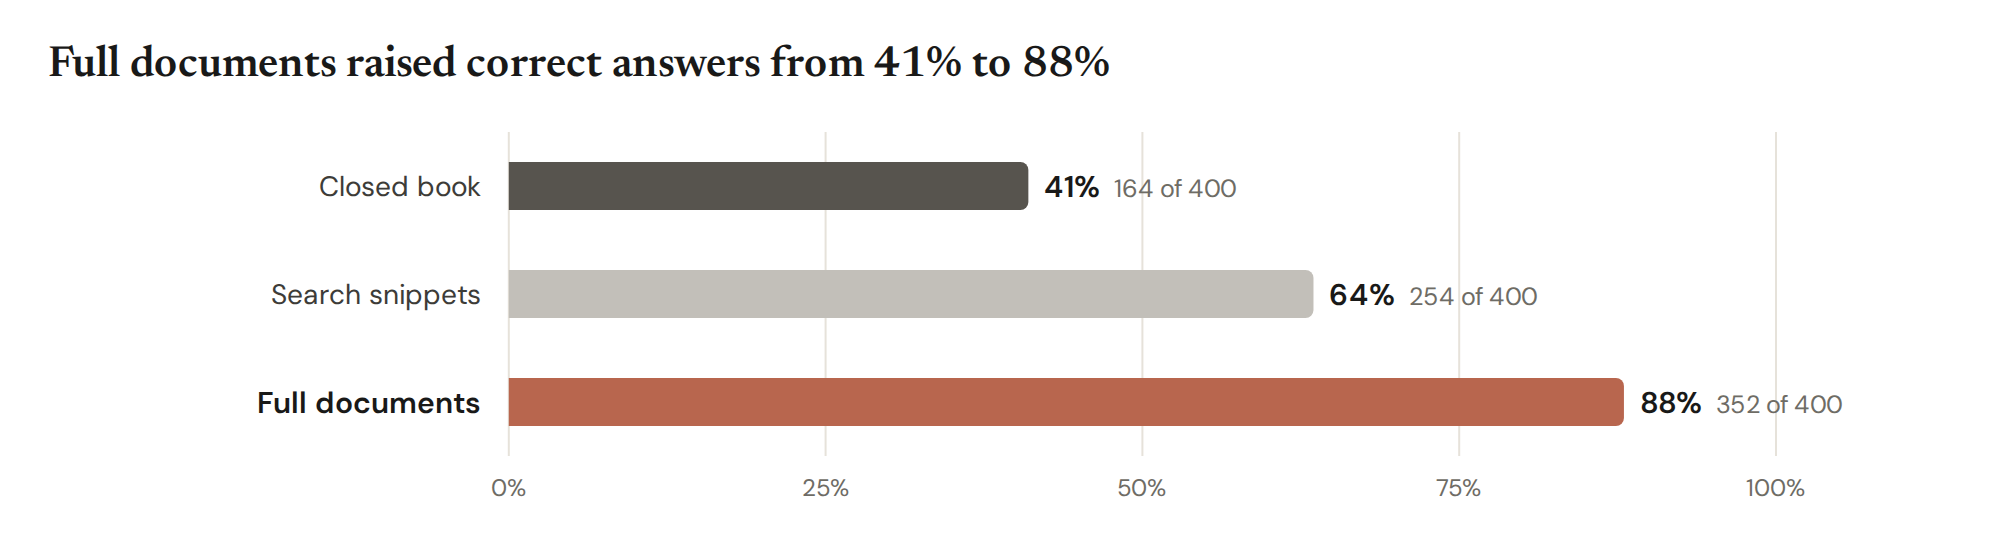
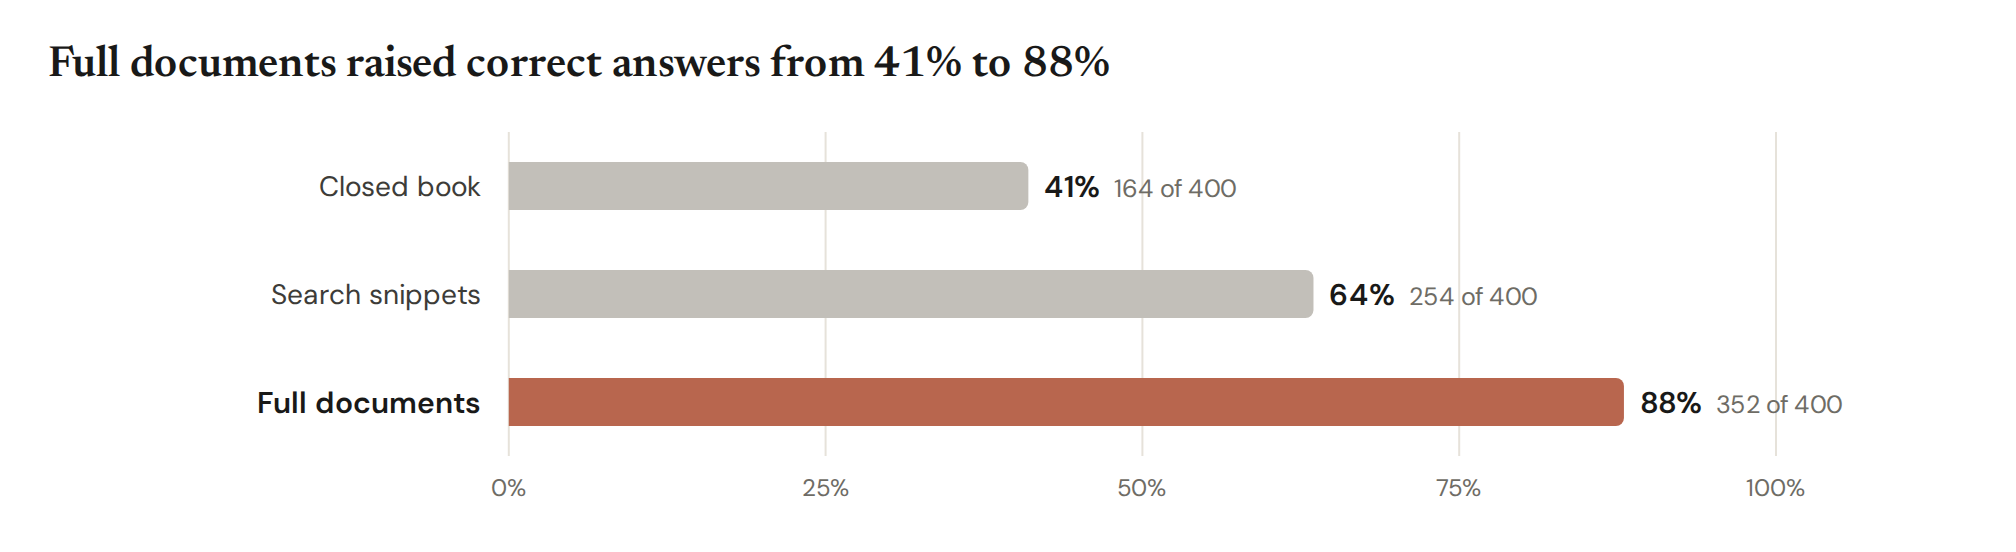
Controls take the light gray
The control is the light gray, like everything else that isn't the point; the intervention colors are unchanged.

Changed region(s): [[0.25, 0.2772, 0.5312, 0.4004]]

diff --git a/tests/test_colors.py b/tests/test_colors.py
@@ -39,8 +39,8 @@ DATA = {"Closed book": 59, "Longer prompt": 55, "With search": 12}
 def test_roles_color_the_named_conditions_and_mute_the_rest():
     assert drawn(vl.hbar(DATA)) == ["blue", "blue", "blue"]
     vl.set_roles(control="Closed book", intervention="With search")
-    assert drawn(vl.hbar(DATA)) == ["dark", "gray", "coral"]
-    assert drawn(vl.bars(DATA)) == ["dark", "gray", "coral"]
+    assert drawn(vl.hbar(DATA)) == ["gray", "gray", "coral"]
+    assert drawn(vl.bars(DATA)) == ["gray", "gray", "coral"]
     assert vl.roles() == {"Closed book": "control", "With search": "intervention"}
     vl.set_roles(baseline="Closed book")  # another name for the control
     assert vl.roles() == {"Closed book": "control"}
@@ -50,8 +50,8 @@ def test_the_interventions_take_the_palette_in_order():
     data = {"Closed book": 60, "With search": 50, "Rerank": 40, "Prompting": 30, "Fine-tuning": 20, "Both": 10}
     f = vl.hbar(data, roles={"control": "Closed book", "intervention": "With search", "second": "Rerank",
                              "third": "Prompting", "fourth": "Fine-tuning", "fifth": "Both"})
-    assert drawn(f) == ["dark", "coral", "blue", "sage", "plum", "ochre"]
-    assert vl.color("intervention") == th.color("coral") and vl.color("baseline") == th.color("dark")
+    assert drawn(f) == ["gray", "coral", "blue", "sage", "plum", "ochre"]
+    assert vl.color("intervention") == th.color("coral") and vl.color("baseline") == th.color("gray")
 
 
 def test_ordered_conditions_run_light_to_dark():
@@ -66,23 +66,23 @@ def test_ordered_conditions_run_light_to_dark():
 def test_roles_apply_to_series_names_and_muted_series_take_shades():
     vl.set_roles(control="Closed book", intervention="With search")
     grouped = vl.bars({"Model A": [40, 10]}, series=["With search", "Closed book"], legend=False)
-    assert drawn(grouped) == ["coral", "dark"]  # by name, not by position
+    assert drawn(grouped) == ["coral", "gray"]  # by name, not by position
     lines = vl.line({"Closed book": [1, 2], "Rerank": [2, 3], "Prompting": [2, 2], "With search": [3, 4]}, x=[0, 1],
                     legend=False, markers=False)
     strokes = {NAMES.get(c.upper()) for c in re.findall(r'stroke="(#[0-9A-Fa-f]{6})"', lines.svg())}
-    assert {"dark", "gray", "gray-light", "coral"} <= strokes
+    assert {"gray", "gray-light", "coral"} <= strokes
 
 
 def test_a_figure_keeps_the_roles_it_was_made_with():
     vl.set_roles(control="Closed book")
     f = vl.hbar(DATA)
     vl.set_roles(control="With search")
-    assert drawn(f)[0] == "dark" and drawn(f)[2] == "gray"
+    assert drawn(f)[0] == "gray" and drawn(f)[2] == "gray" and drawn(f) == ["gray", "gray", "gray"]
 
 
 def test_per_chart_roles_add_to_the_global_ones():
     vl.set_roles(control="Closed book", intervention="With search")
-    assert drawn(vl.hbar(DATA, roles={"second": "Longer prompt"})) == ["dark", "blue", "coral"]
+    assert drawn(vl.hbar(DATA, roles={"second": "Longer prompt"})) == ["gray", "blue", "coral"]
     with pytest.raises(ValueError, match="unknown role"):
         vl.hbar(DATA, roles={"focus": "With search"})
 
@@ -91,7 +91,7 @@ def test_explicit_colors_win_and_highlight_only_bolds_when_roles_are_in_play():
     vl.set_roles(control="Closed book")
     assert drawn(vl.hbar(DATA, colors={"Closed book": "navy"})) == ["navy", "gray", "gray"]
     f = vl.bars(DATA, highlight="Longer prompt")
-    assert drawn(f) == ["dark", "gray", "gray"]
+    assert drawn(f) == ["gray", "gray", "gray"]
     assert re.search(r'font-weight="600"[^>]*>Longer prompt<', f.svg())
     vl.set_roles()
     assert drawn(vl.hbar(DATA, highlight="With search")) == ["gray", "gray", "blue"]  # no roles: the accent
@@ -100,13 +100,13 @@ def test_explicit_colors_win_and_highlight_only_bolds_when_roles_are_in_play():
 def test_panels_pass_their_roles_to_each_panel():
     p = vl.panels([vl.bars({"Closed book": 38, "Search": 10}), vl.bars({"Small model": 38, "Search": 12})],
                   roles={"control": ["Closed book", "Small model"], "intervention": "Search"})
-    assert drawn(p) == ["dark", "coral", "dark", "coral"]
+    assert drawn(p) == ["gray", "coral", "gray", "coral"]
 
 
 def test_json_specs_take_roles():
     f = vl.from_spec({"chart": "hbar", "data": {"Base model": 31, "Worked examples": 18, "Forum answers": 37},
                       "roles": {"control": "Base model", "intervention": "Worked examples"}})
-    assert drawn(f) == ["dark", "coral", "gray"]
+    assert drawn(f) == ["gray", "coral", "gray"]
 
 
 def test_a_roles_file_sets_the_roles_for_every_script(tmp_path, monkeypatch):
@@ -116,7 +116,7 @@ def test_a_roles_file_sets_the_roles_for_every_script(tmp_path, monkeypatch):
     monkeypatch.chdir(work)
     colors._state.update(loaded=False, source=None)  # a fresh process
     colors._global.clear()
-    assert drawn(vl.hbar(DATA)) == ["dark", "gray", "coral"]
+    assert drawn(vl.hbar(DATA)) == ["gray", "gray", "coral"]
     assert colors.source() == (tmp_path / "vellum-roles.json").resolve()
     vl.set_roles(intervention="Longer prompt")  # code replaces the file for this script
     assert drawn(vl.hbar(DATA)) == ["gray", "coral", "gray"] and colors.source() is None
@@ -136,6 +136,6 @@ def test_role_names_that_almost_match_are_flagged():
 
 
 def test_palettes_are_exported():
-    assert vl.PALETTES["roles"] == {"control": "dark", "intervention": "coral", "second": "blue", "third": "sage",
+    assert vl.PALETTES["roles"] == {"control": "gray", "intervention": "coral", "second": "blue", "third": "sage",
                                     "fourth": "plum", "fifth": "ochre"}
     assert vl.PALETTES["outcomes"]["bad"] == "coral" and vl.PALETTES["series"][:3] == ["coral", "blue", "sage"]

diff --git a/tests/test_access.py b/tests/test_access.py
@@ -37,8 +37,8 @@ def test_text_colors_reach_4_5_to_1(token):
     assert access.contrast(getattr(th, token), th.BG) >= 4.5
 
 
-@pytest.mark.parametrize("name", [*ROLES.values(), *th.SERIES, "coral"])
-def test_mark_colors_reach_3_to_1(name):
+@pytest.mark.parametrize("name", [c for c in ROLES.values() if c != MUTED] + [*th.SERIES, "coral"])
+def test_mark_colors_reach_3_to_1(name):  # the light gray control is labeled context
     assert access.contrast(th.color(name), th.BG) >= 3.0
 
 
@@ -50,7 +50,7 @@ def common_vision_distance(a: str, b: str) -> float:
 
 
 def test_the_control_and_first_three_interventions_stay_apart():
-    group = ["dark", "coral", "blue", "sage", MUTED]
+    group = [MUTED, "coral", "blue", "sage"]  # the control is the muted gray
     for a, b in itertools.combinations(group, 2):
         assert common_vision_distance(a, b) >= 10, (a, b)
         assert access.worst_delta_e(th.color(a), th.color(b))[0] >= 6, (a, b)  # tritanopia too, a little closer
@@ -61,7 +61,7 @@ def test_the_fourth_and_fifth_only_near_their_hue_twins():
     assert common_vision_distance("plum", "blue") < 10 and common_vision_distance("ochre", "coral") < 10
     for c in ("plum", "ochre"):
         twin = "blue" if c == "plum" else "coral"
-        for other in ["dark", "coral", "blue", "sage", "plum", "ochre", MUTED]:
+        for other in ["coral", "blue", "sage", "plum", "ochre", MUTED]:
             if other not in (c, twin):
                 assert common_vision_distance(c, other) >= 10, (c, other)
 

diff --git a/src/vellum/colors.py b/src/vellum/colors.py
@@ -3,7 +3,7 @@
     vl.set_roles(control="Closed book", intervention="With search", second="Rerank")
     vl.hbar({"Closed book": 59, "Rerank": 30, "Longer prompt": 55, "With search": 12}, title=...)
 
-control       dark gray   the condition without the intervention: the baseline, the untrained model ("baseline"
+control       light gray  the condition without the intervention: the baseline, the untrained model ("baseline"
                           means the same role)
 intervention  orange      what the figure is about
 second        blue        a second intervention
@@ -29,7 +29,7 @@ from collections.abc import Mapping
 from contextlib import contextmanager
 from pathlib import Path
 
-ROLES = {"control": "dark", "intervention": "coral", "second": "blue", "third": "sage", "fourth": "plum",
+ROLES = {"control": "gray", "intervention": "coral", "second": "blue", "third": "sage", "fourth": "plum",
          "fifth": "ochre"}
 ALIASES = {"baseline": "control"}
 ROLE_NAMES = (*ROLES, *ALIASES, "ordered")
@@ -170,7 +170,7 @@ def card():
     from . import theme as th
     from .figure import Body, Figure
 
-    shown = {"plum": "purple", "coral": "orange", "dark": "dark gray"}
+    shown = {"plum": "purple", "coral": "orange", "gray": "light gray"}
     rows = [(role, shown.get(name, name), [th.color(name)]) for role, name in ROLES.items()]
     rows += [("ordered", "light blue to navy", th.ramp(4)),
              ("everything else", "gray shades", [th.color(c) for c in th.MUTED_SHADES])]

diff --git a/src/vellum/theme.py b/src/vellum/theme.py
@@ -23,12 +23,13 @@ AXIS = "#B9B6AE"      # axis lines (vertical bars), connectors
 RULE = "#E2DFD7"      # card borders, rules
 
 # ---- named colors. Color carries meaning across a write-up (vellum.colors assigns them by role):
-#   dark  = the control (the baseline, the untrained model), a charcoal gray dark enough to stay apart from sage
+#   gray  = the control (the baseline, the untrained model), like everything else that isn't the point
 #   coral (orange), blue, sage, purple (plum), ochre = the interventions, in that order
 #   gray  = everything else, muted (gray-light and gray-dark tell muted series apart in a legend)
 #   blue / beige / coral also mark good / neutral / bad outcomes in an outcome chart
 # Accessibility (tests/test_access.py holds these): the control and intervention colors reach 3:1 against the white
-# background. The control and the first three intervention colors stay at least 10 CIEDE2000 apart for normal
+# background (the light gray control is context, labeled like every bar). The control and the first three
+# intervention colors stay at least 10 CIEDE2000 apart for normal
 # vision and the red-green color blindnesses (blue and sage come closer for the rare tritanopia); purple and ochre
 # share hues with blue and orange for red-green color blindness, so a figure with four or five interventions leans
 # on its labels, and the checks say so. The light grays are context, so values on them are always labeled.

diff --git a/README.md b/README.md
@@ -146,7 +146,7 @@ vl.set_roles(control="Closed book", intervention=["With search", "Search"], seco
 
 | Role | Color | For |
 |---|---|---|
-| `control` | dark gray | the condition without the intervention: the baseline, the untrained model (`baseline` works too) |
+| `control` | light gray | the condition without the intervention: the baseline, the untrained model (`baseline` works too) |
 | `intervention` | orange | what the figure is about |
 | `second` | blue | a second intervention |
 | `third` | sage | a third |
@@ -178,7 +178,8 @@ of this, and `vellum colors -o colors.png` draws the card below.
 
 - All text reaches 4.5:1 contrast with what it sits on, including labels on colored fills (vellum picks white or
   ink, whichever contrasts more), and no text is smaller than 12 px.
-- The control and intervention colors reach 3:1 against the white background. The control and the first three
+- The intervention colors reach 3:1 against the white background; the light gray control is context, and its
+  value is labeled like every bar's. The control and the first three
   interventions (orange, blue, sage) stay at least 10 CIEDE2000 apart for normal vision and the red-green color
   blindnesses; blue and sage come closer for the rare tritanopia. Purple and ochre are near blue and orange for
   red-green color-blind readers, so a figure with four or five interventions relies on its labels, and the checks
@@ -235,9 +236,9 @@ The distribution charts take the raw values: `{group: [v, ...]}`, or a plain lis
 `box`, `strip`, `violin` and `dotplot` keep the percent default; `histogram` and `ecdf` measure plain numbers on x and show
 counts or percents of items on y. None and NaN are skipped everywhere.
 
-Colors are names from `vl.PALETTE`, or role names such as `"intervention"`: the control `dark`; the interventions
+Colors are names from `vl.PALETTE`, or role names such as `"intervention"`: the control `gray`; the interventions
 `coral` (also `orange`), `blue`, `sage`, `plum` (also `purple`) and `ochre`; the muted `gray`, `gray-light` and
-`gray-dark`; `beige` for a neutral outcome; and `light-blue`, `navy`, `deep-blue`, `olive`, `mid`, `light-sage`,
+`gray-dark`; `beige` for a neutral outcome; and `dark`, `light-blue`, `navy`, `deep-blue`, `olive`, `mid`, `light-sage`,
 `deep-sage`, `light-coral` and `clay`. Hex values also work. Run `vellum colors` to list them.
 
 ## Gallery
